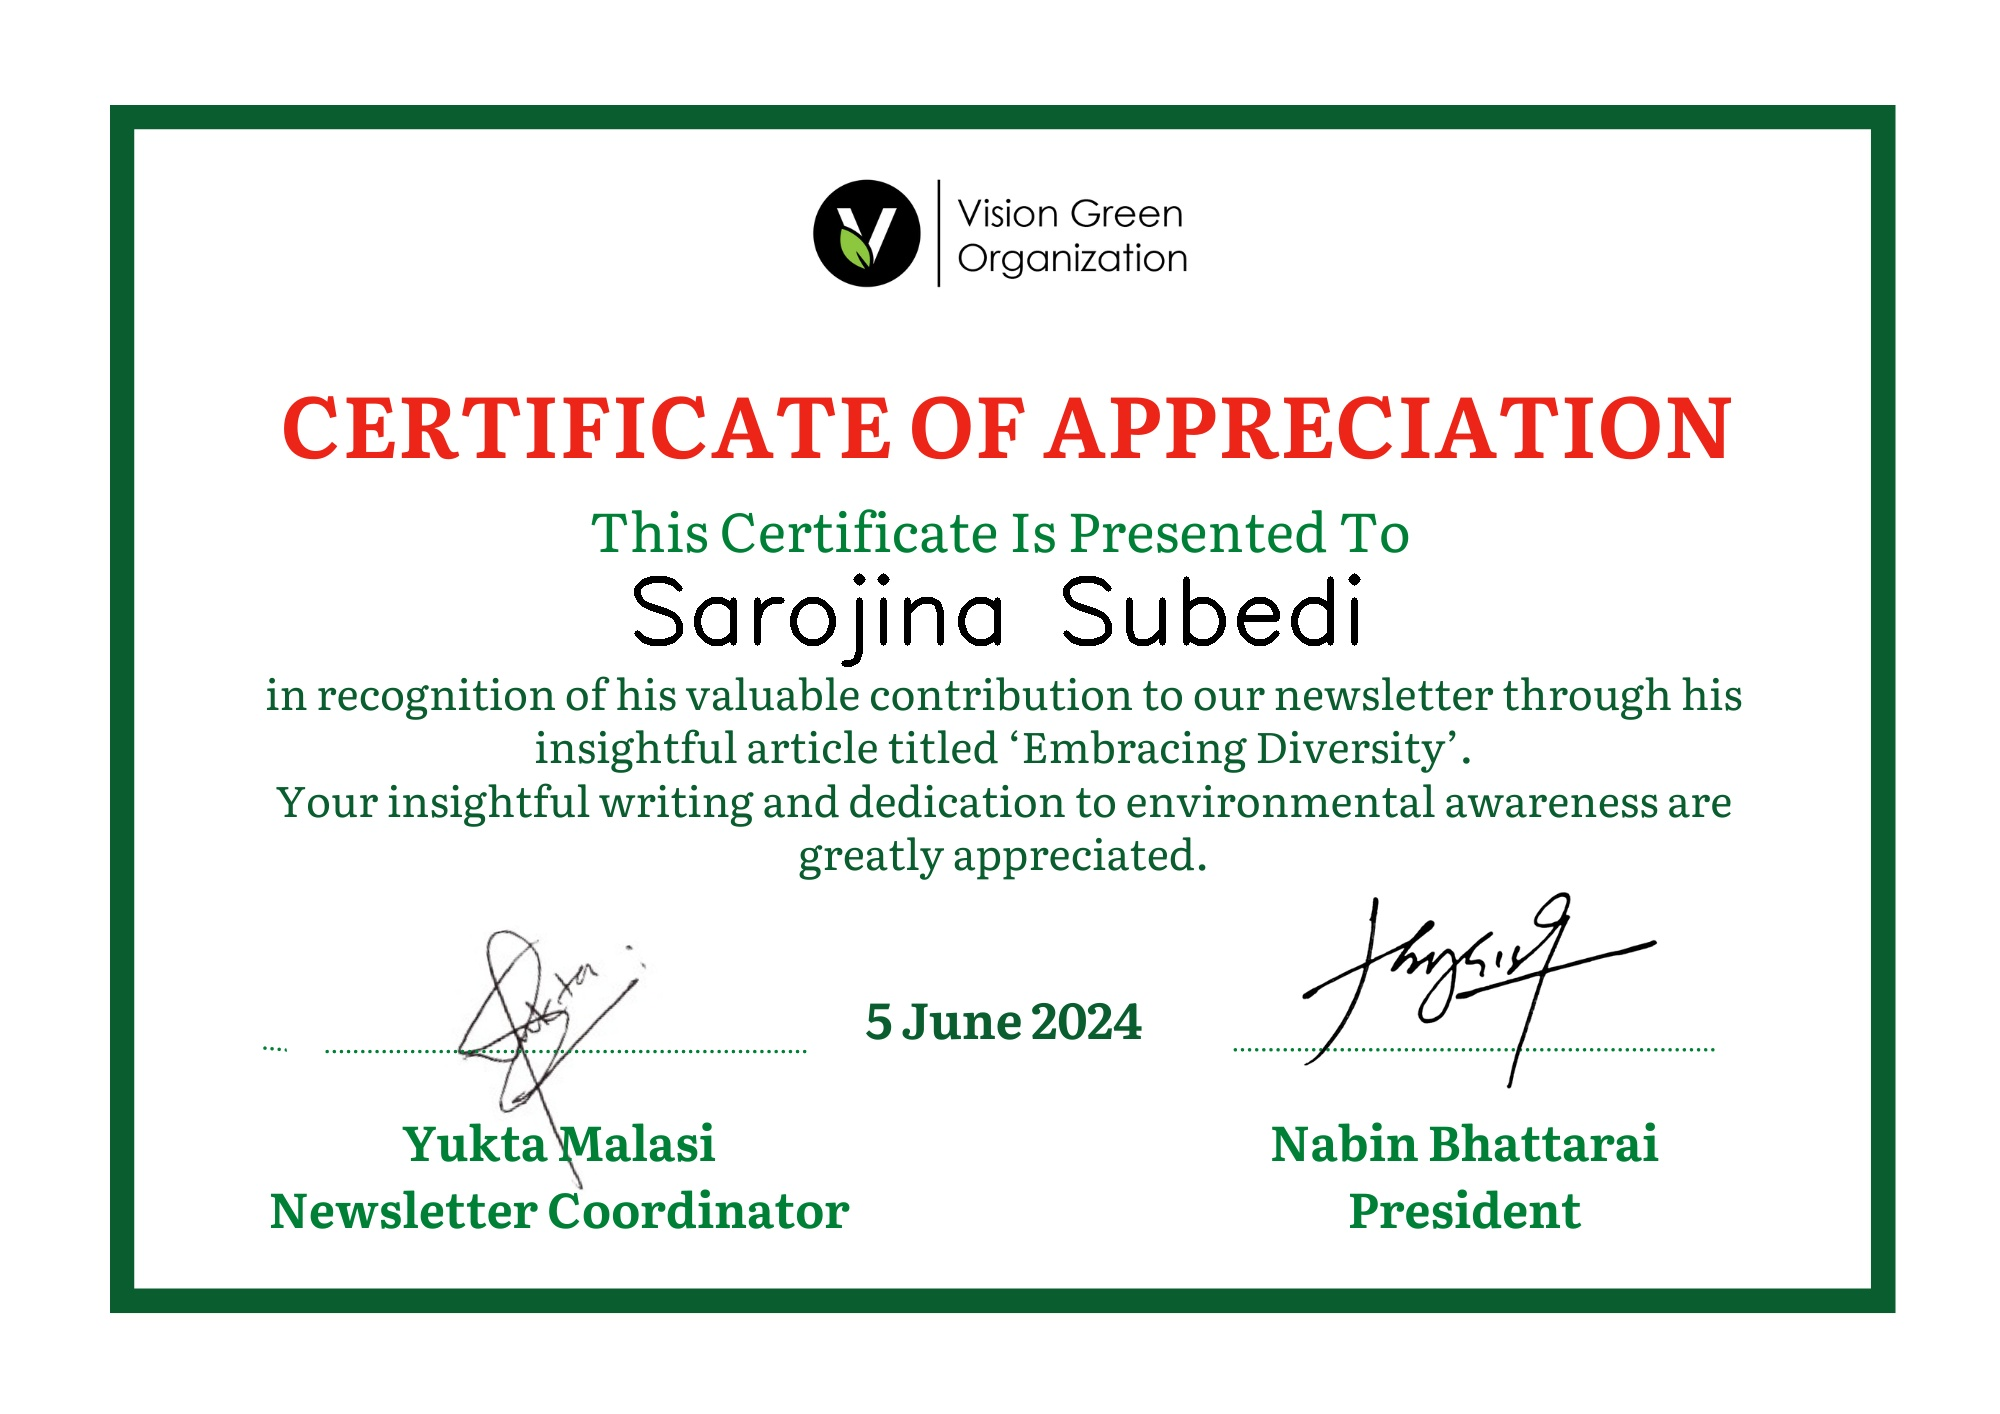
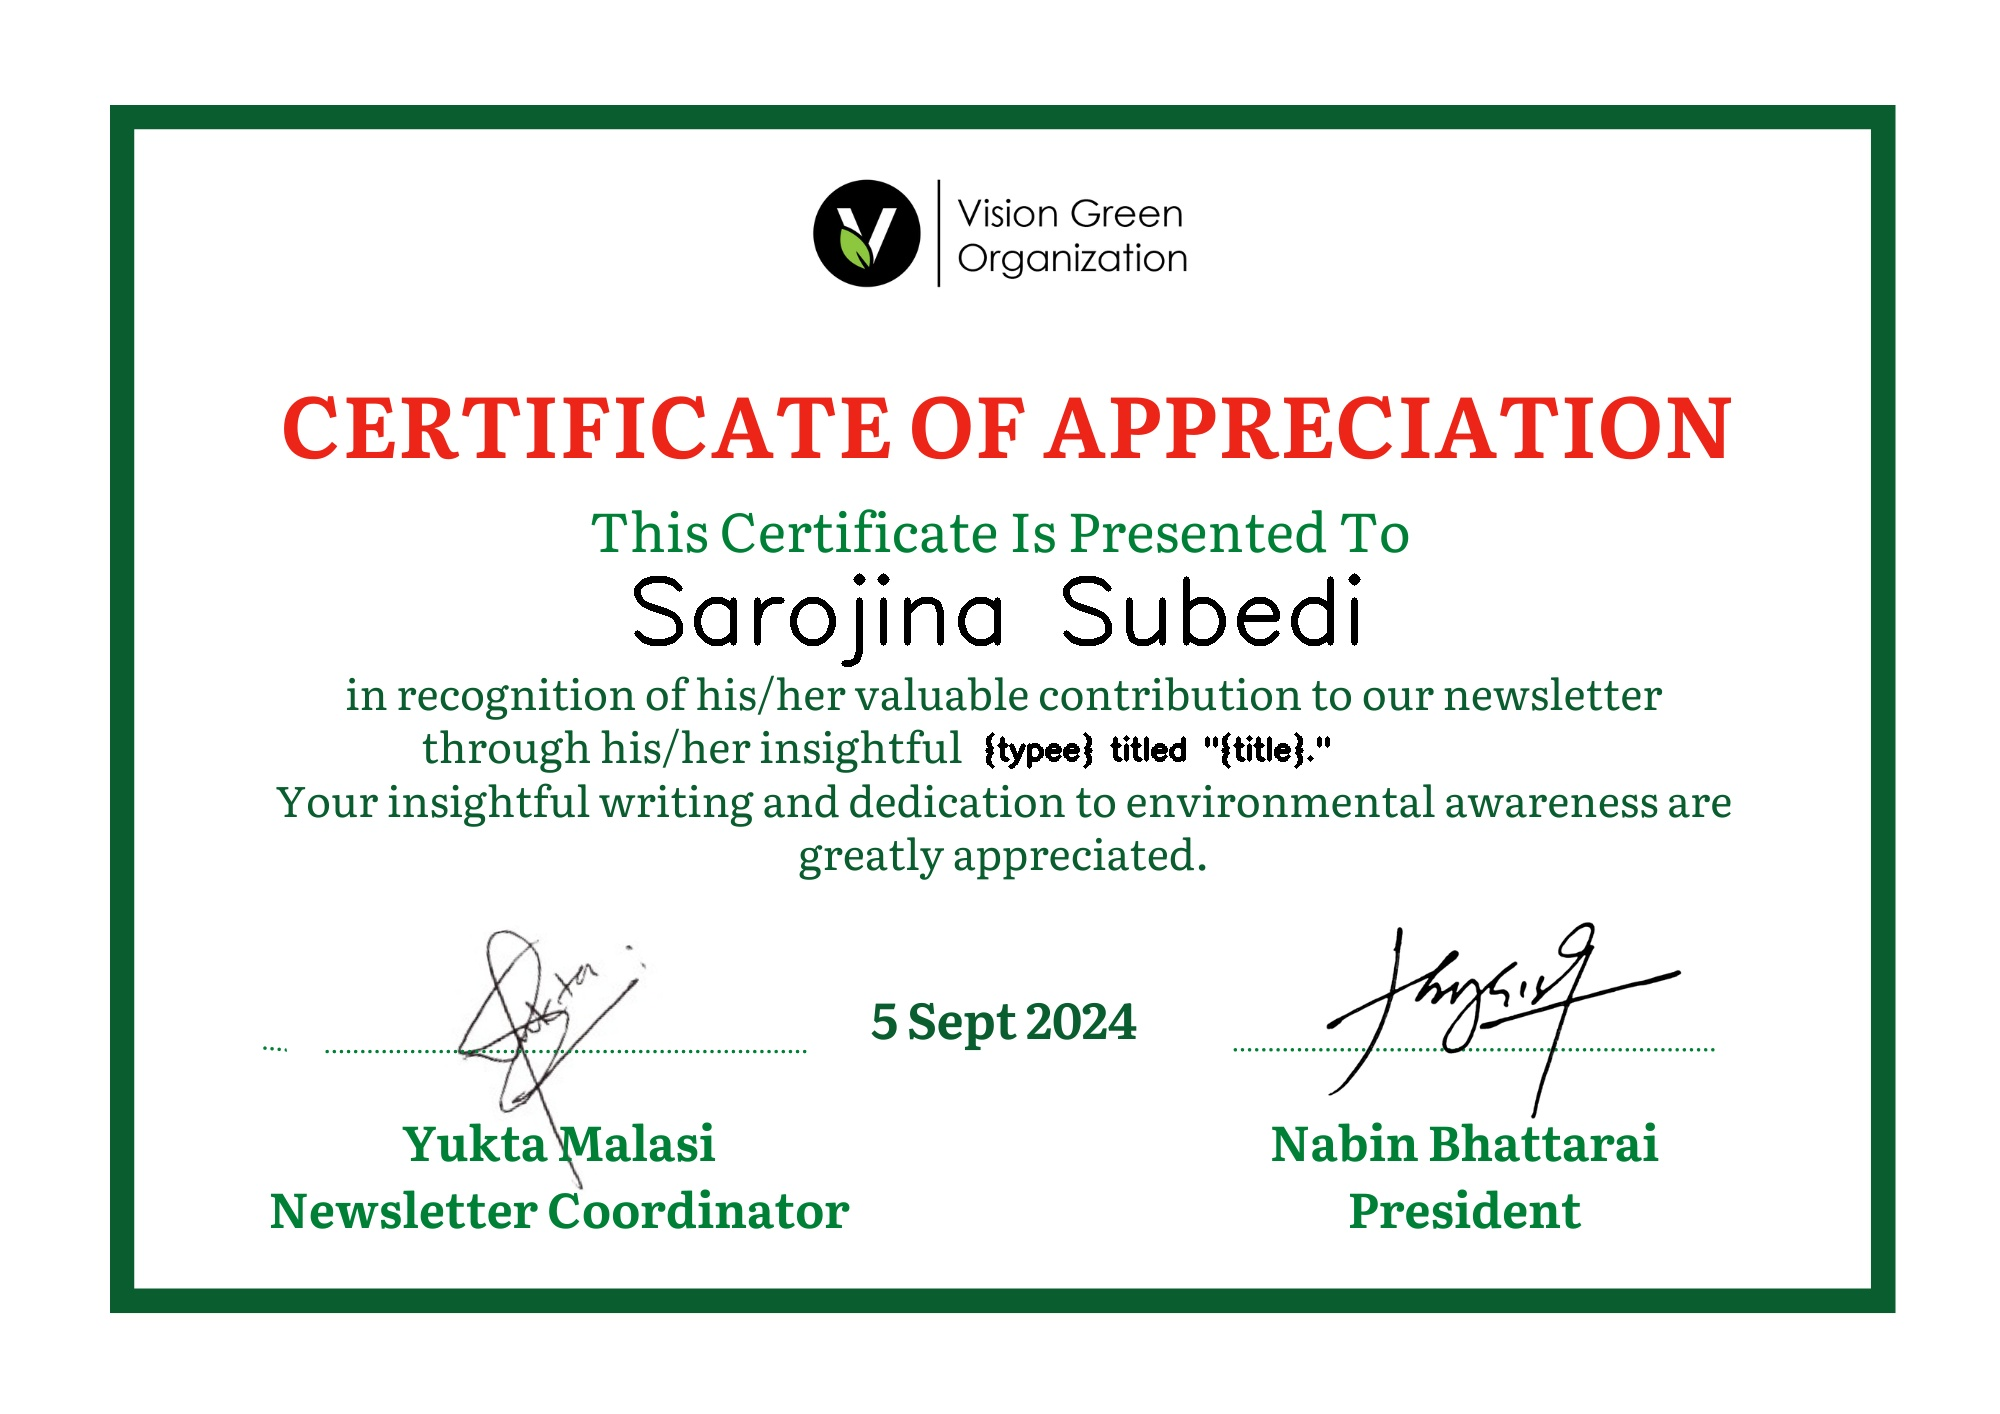
contibutions

Changed region(s): [[0.124, 0.4668, 0.868, 0.5601], [0.651, 0.6223, 0.837, 0.7779], [0.434, 0.6846, 0.589, 0.7468]]

diff --git a/certificate.py b/certificate.py
@@ -44,12 +44,15 @@ def annotate(name):
     font = cv2.FONT_HERSHEY_SIMPLEX
     # get boundary of this text
     textsize = cv2.getTextSize(name, font, fontScale, 5)[0]
-
+    
     # get coords based on boundary
     textX = (certi.shape[1] - textsize[0]) // 2
     textY = (certi.shape[0] + textsize[1]) // 2
 
-    original = cv2.putText(certi, name, (textX, 642),font,   fontScale, (0, 0, 0), thickness=5)    
+    cv2.putText(certi, name, (textX, 642),font,   fontScale, (0, 0, 0), thickness=5)    
+    typee = contributions[name][0]
+    title = contributions[name][1]
+    original = cv2.putText(certi, f"{typee} titled \"{title}.\"", (983,759),font, 1, (0, 0, 0), thickness=3)    
     cv2.imwrite("Certificate_{}.jpg".format(name),original)
 
     
